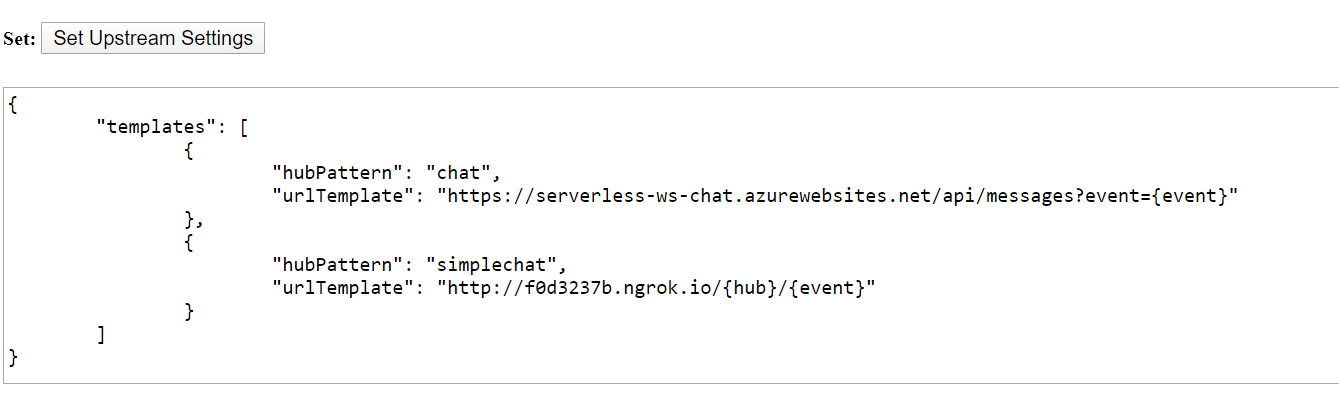
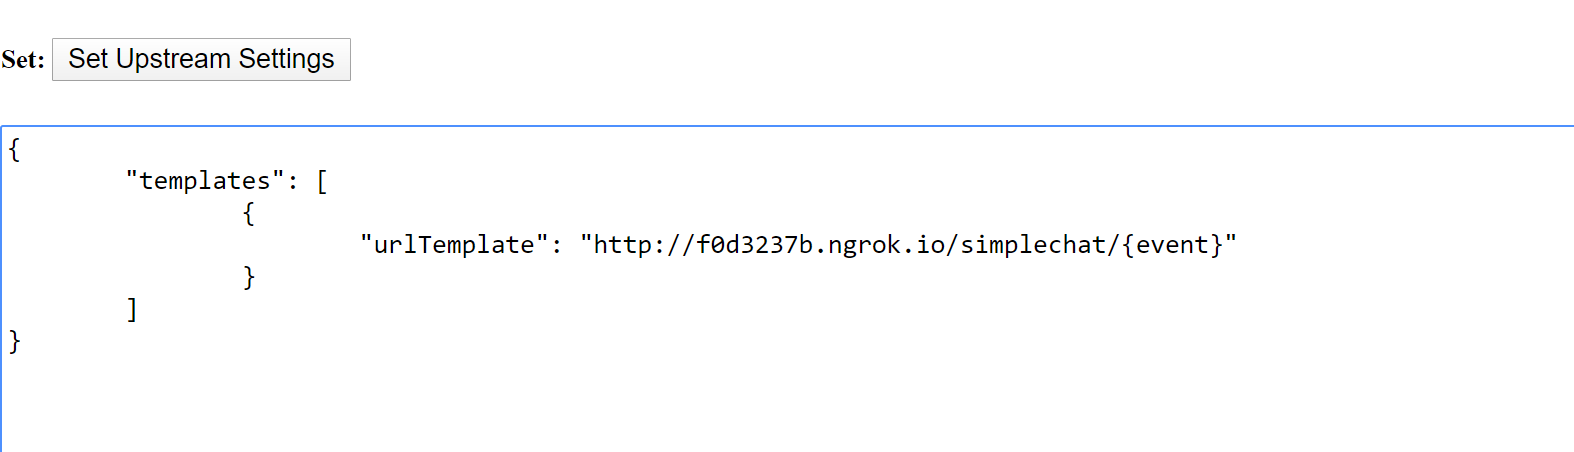
Remove format parameter in url and add a default hub

diff --git a/serverless-websocket/samples/simple-chat/index.js b/serverless-websocket/samples/simple-chat/index.js
@@ -17,8 +17,6 @@ if (!parsed) {
   return;
 }
 
-const hub = 'simplechat';
-
 // serve default to return index.html
 app.get('/', function (req, res) {
   const name = req.query.name;
@@ -31,7 +29,7 @@ app.get('/', function (req, res) {
     if (err) {
       res.sendStatus(404);
     } else {
-      var rendered = data.replace(/%%%____URL____%%%/g, `${parsed.wshost}ws/client/hubs/${hub}/?user=${name}`)
+      var rendered = data.replace(/%%%____URL____%%%/g, `${parsed.wshost}ws/client/?user=${name}`)
         .replace(/%%%___user___%%%/g, name);
       res.send(rendered);
     }
@@ -39,14 +37,14 @@ app.get('/', function (req, res) {
 });
 
 // serve requests for "simplechat"
-app.post(`/${hub}/connect`, function (req, res) {
+app.post(`/simplechat/connect`, function (req, res) {
   var user = new URLSearchParams(req.header("x-asrs-client-query")).get('user');
   console.log(`connect ${req.header("x-asrs-connection-id")} user ${user} connected.`);
   // set back the user id for the connection
   res.header("x-asrs-user-id", user);
   res.send(`User ${user}(${req.header("x-asrs-connection-id")}) connected.`);
 });
-app.post(`/${hub}/message`, function (req, res) {
+app.post(`/simplechat/message`, function (req, res) {
   console.log(`User ${res.header("x-asrs-user-id")}(${req.header("x-asrs-connection-id")}) sending message.`);
   // broadcast through Azure SignalR
   req.setEncoding('utf8');
@@ -62,7 +60,7 @@ app.post(`/${hub}/message`, function (req, res) {
     }
   });
 });
-app.post(`/${hub}/disconnect`, function (req, res) {
+app.post(`/simplechat/disconnect`, function (req, res) {
   console.log(`User ${res.header("x-asrs-user-id")}(${req.header("x-asrs-connection-id")}) disconnected.`);
 });
 
@@ -73,7 +71,7 @@ var server = app.listen(8088, function () {
 });
 
 function broadcast(content) {
-  var path = "ws/api/v1/hubs/" + hub;
+  var path = "ws/api/v1";
   var url = parsed.host + path;
   var token = getToken(path);
   return axios.post(url, content, {

diff --git a/serverless-websocket/samples/advanced-chatroom/Readme.md b/serverless-websocket/samples/advanced-chatroom/Readme.md
@@ -62,11 +62,11 @@ There are two Functions inside this repo:
 3. [The Function handling WebSocket requests](./messages)
 
 ## The Function hosting the Chat's static webpage
-The Chat's webpage is quite simple, a static webpage is enough. It is based on pure html and the [Vue.js](https://cn.vuejs.org/index.html) JavaScript framework. What the function does in [index.js](./home/index.js) is simply return the content of [index.html](./home/index.html), providing the Azure SignalR Serverless WebSocket endpoint value `{AzureSignalREndpoint}/ws/client/hubs/chat`. The following patterns are all valid while `{hub}` is required and `{format}` is optional with `text` as default value.
+The Chat's webpage is quite simple, a static webpage is enough. It is based on pure html and the [Vue.js](https://cn.vuejs.org/index.html) JavaScript framework. What the function does in [index.js](./home/index.js) is simply return the content of [index.html](./home/index.html), providing the Azure SignalR Serverless WebSocket endpoint value `{AzureSignalREndpoint}/ws/client/hubs/chat`. `hub` is an optional parameter and it is useful in isolating functionalities when using one service, for example, you can have both `/ws/client/hubs/notification` and `/ws/client/hubs/chat`. When `hub` is not specified, the service creates a preserved hub `_default` internally. Below url patterns all work.
 
-1. `/ws/client?hub={hub}&format={text|binary}`
-2. `/ws/client/hubs/{hub}?format={text|binary}`
-3. `/ws/client/hubs/{hub}/formats/{text|binary}`
+1. `/ws/client`
+1. `/ws/client?hub={hub}`
+1. `/ws/client/hubs/{hub}`
 
 To make the demo workflow simple, current auth info is read from request's query `name`. AAD is also supported if AAD is configured for the Function App.
 
@@ -100,18 +100,18 @@ If the `connect` event returns success code, Azure SignalR Service will establis
 Note that the Function can set the `user` identity of the connection by setting `X-ASRS-User-Id` response header when `connect`, as [./messages/events/connect.js](./messages/events/connect.js) shows.
 
 ### Ask Azure SignalR to do things for you
-Azure SignalR provides REST APIs to be used to manipulate connected WebSocket connections, the following actions are possible:
+Azure SignalR provides [REST APIs](../../specs/ws.swagger.json) to be used to manipulate connected WebSocket connections, the following actions are possible:
 
-| Actions | REST API |
-|----|----|
-| Broadcast message | `POST /ws/api/v1/hubs/{hub}` |
-| Send message to user | `POST /ws/api/v1/hubs/{hub}/users/{id}`|
-| Send message to connection |`POST /ws/api/v1/hubs/{hub}/connections/{connectionId}`|
-| Add connection to group |`PUT /ws/api/v1/hubs/{hub}/groups/{group}/connections/{connectionId}`|
-| Remove connection from group|`Delete /ws/api/v1/hubs/{hub}/groups/{group}/connections/{connectionId}`|
-| Add user to group |`PUT /ws/api/v1/hubs/{hub}/groups/{group}/users/{user}`|
-| Remove user from group|`Delete /ws/api/v1/hubs/{hub}/groups/{group}/users/{user}`|
-| Send message to group| `POST /ws/api/v1/hubs/{hub}/groups/{group}`|
-| Close connection| `DELETE /ws/api/v1/hubs/{hub}/connections/{connectionId}?reason={reason}`
+| Actions | REST API With Default Hub | REST API With specific Hub|
+|----|----|--|
+| Broadcast message | `POST /ws/api/v1` | `POST /ws/api/v1/hubs/{hub}` |
+| Send message to user | `POST /ws/api/v1/users/{id}`| `POST /ws/api/v1/hubs/{hub}/users/{id}`|
+| Send message to connection |`POST /ws/api/v1/connections/{connectionId}`|`POST /ws/api/v1/hubs/{hub}/connections/{connectionId}`|
+| Add connection to group |`PUT /ws/api/v1/groups/{group}/connections/{connectionId}`|`PUT /ws/api/v1/hubs/{hub}/groups/{group}/connections/{connectionId}`|
+| Remove connection from group|`Delete /ws/api/v1/groups/{group}/connections/{connectionId}`|`Delete /ws/api/v1/hubs/{hub}/groups/{group}/connections/{connectionId}`|
+| Add user to group |`PUT /ws/api/v1/groups/{group}/users/{user}`|`PUT /ws/api/v1/hubs/{hub}/groups/{group}/users/{user}`|
+| Remove user from group|`Delete /ws/api/v1/groups/{group}/users/{user}`|`Delete /ws/api/v1/hubs/{hub}/groups/{group}/users/{user}`|
+| Send message to group| `POST /ws/api/v1/groups/{group}`|`POST /ws/api/v1/hubs/{hub}/groups/{group}`|
+| Close connection| `DELETE /ws/api/v1/connections/{connectionId}?reason={reason}` |`DELETE /ws/api/v1/hubs/{hub}/connections/{connectionId}?reason={reason}`|
 
 The Auth of REST API leverages [JWT Token](https://jwt.io), [./messages/api.js](./messages/api.js) demonstrates how to sign the request using `jsonwebtoken` library.

diff --git a/serverless-websocket/specs/runtime-websocket-serverless.md b/serverless-websocket/specs/runtime-websocket-serverless.md
@@ -7,7 +7,7 @@ Use Azure SignalR Service to handle pure WebSocket requests (without SignalR):
 - Talk to an upstream application using HTTP protocol
 - Handle connection connect/disconnect events
 - Handle the WebSocket handshake, with the ability to configure the SubProtocol and reject connections
-- Handle WebSocket messages
+- Handle WebSocket messages, supporting both text and binary format within one connection
 
 ## Non-Goals
 - The upstream using persistent connection is out of scope.
@@ -26,6 +26,7 @@ Use Azure SignalR Service to handle pure WebSocket requests (without SignalR):
 
 1. The portal will support configuring WebSocket mode, from CLI and Azure portal. With WebSocket mode, only `/ws` requests are allowed.
 2. The portal will support configuring Upstream settings from CLI and Azure portal.
+3. The portal will support configuring the Auth settings talking to Upstream.
 
 ## Authentication
 
@@ -44,11 +45,11 @@ Use Azure SignalR Service to handle pure WebSocket requests (without SignalR):
 
 ## Client endpoint
 
-Both hub and format support set from url or query, below patterns are valid.
+Hub is optional, when hub is not set, a default hub `_default` is used. Below patterns are valid.
 
-- `wss://{serviceUrl}/ws/client/hubs/{hub}/formats/{text/binary}`
-- `wss://{serviceUrl}/ws/client/hubs/{hub}?formats={text/binary}`
-- `wss://{serviceUrl}/ws/client?hubs={hub}&format={text/binary}`
+- `wss://{serviceUrl}/ws/client`
+- `wss://{serviceUrl}/ws/client/hubs/{hub}`
+- `wss://{serviceUrl}/ws/client?hubs={hub}`
 
 ## Upstream
 
@@ -94,17 +95,17 @@ Each is a defined **event** and belongs to a **category**. When event are trigge
 
 The ASRS server tracks clients and has a result can be used to send messages to a specific client or a set of clients. You can use the [REST API](./ws.swagger.json) to send messages to clients.
 
-| Actions | REST API |
-|----|----|
-| Broadcast message | `POST /ws/api/v1/hubs/{hub}` |
-| Send message to user | `POST /ws/api/v1/hubs/{hub}/users/{id}`|
-| Send message to connection |`POST /ws/api/v1/hubs/{hub}/connections/{connectionId}`|
-| Add connection to group |`PUT /ws/api/v1/hubs/{hub}/groups/{group}/connections/{connectionId}`|
-| Remove connection from group|`DELETE /ws/api/hubs/{hub}/v1/groups/{group}/connections/{connectionId}`|
-| Add user to group |`PUT /ws/api/v1/hubs/{hub}/groups/{group}/users/{user}`|
-| Remove user from group|`DELETE /ws/api/v1/hubs/{hub}/groups/{group}/users/{user}`|
-| Send message to group| `POST /ws/api/v1/hubs/{hub}/groups/{group}`|
-| Close connection| `DELETE /ws/api/v1/hubs/{hub}/connections/{connectionId}?reason={reason}`
+| Actions | REST API With Default Hub | REST API With Specific Hub|
+|----|----|----|
+| Broadcast message | `POST /ws/api/v1` | `POST /ws/api/v1/hubs/{hub}` |
+| Send message to user | `POST /ws/api/v1//users/{id}`| `POST /ws/api/v1/hubs/{hub}/users/{id}`|
+| Send message to connection | `POST /ws/api/v1/connections/{connectionId}`| `POST /ws/api/v1/hubs/{hub}/connections/{connectionId}`|
+| Add connection to group | `PUT /ws/api/v1/groups/{group}/connections/{connectionId}`| `PUT /ws/api/v1/hubs/{hub}/groups/{group}/connections/{connectionId}`|
+| Remove connection from group| `DELETE /ws/api/v1/groups/{group}/connections/{connectionId}`| `DELETE /ws/api/v1/hubs/{hub}/groups/{group}/connections/{connectionId}`|
+| Add user to group | `PUT /ws/api/v1/groups/{group}/users/{user}`| `PUT /ws/api/v1/hubs/{hub}/groups/{group}/users/{user}`|
+| Remove user from group| `DELETE /ws/api/v1/groups/{group}/users/{user}`| `DELETE /ws/api/v1/hubs/{hub}/groups/{group}/users/{user}`|
+| Send message to group| `POST /ws/api/v1/groups/{group}`| `POST /ws/api/v1/hubs/{hub}/groups/{group}`|
+| Close connection| `DELETE /ws/api/v1/connections/{connectionId}?reason={reason}`| `DELETE /ws/api/v1/hubs/{hub}/connections/{connectionId}?reason={reason}`|
             
 ## Protocol Details
 

diff --git a/serverless-websocket/samples/simple-chat/Readme.md b/serverless-websocket/samples/simple-chat/Readme.md
@@ -27,20 +27,19 @@ Now local server has a public host name `xxxxx.ngrok.io`. As in the below screen
 4. Set the Upstream pattern for your service
 We have the [Upstream Manage Page](https://ws-manage.azurewebsites.net/api/manage) as a **temp** workaround before the Upstream settings are available in the Azure portal.
 
-Open the [page](https://ws-manage.azurewebsites.net/api/manage) and input your `ConnectionString`, set the upstream for hub `simplechat` to the textarea for **Set Upstream Settings**, remember to replace `xxxxx` with your `ngrok` host. Our sample server listens to path `/simplechat/connect`, `/simplechat/disconnect` and `/simplechat/message`, from which `simplechat` is the value of the `hub`, and `connect`, `disconnect` and `message` are the name of the events. For details about the terms, please refer to the [spec](../../specs/runtime-websocket-serverless.md).
+Open the [page](https://ws-manage.azurewebsites.net/api/manage) and input your `ConnectionString`, set the upstream to the textarea for **Set Upstream Settings**, remember to replace `xxxxx` with your `ngrok` host. Our sample server listens to path `/simplechat/connect`, `/simplechat/disconnect` and `/simplechat/message`, from which `connect`, `disconnect` and `message` are the name of the events. For details about the terms, please refer to the [spec](../../specs/runtime-websocket-serverless.md).
 
 ```json
 {
 	"templates": [
 		{
-			"hubPattern": "simplechat",
-			"urlTemplate": "http://xxxxx.ngrok.io/{hub}/{event}"
+			"urlTemplate": "http://xxxxx.ngrok.io/simplechat/{event}"
 		}
 	]
 }
 ```
 
-For example, the below screenshot sets the upstream templates for both `chat` and `simplechat` hubs.
+For example, the below screenshot sets the upstream templates as `http://f0d3237b.ngrok.io/simplechat/{event}`.
 ![ngrok](./images/sample_set_upstream.png)
 
 5. Visit the chat
